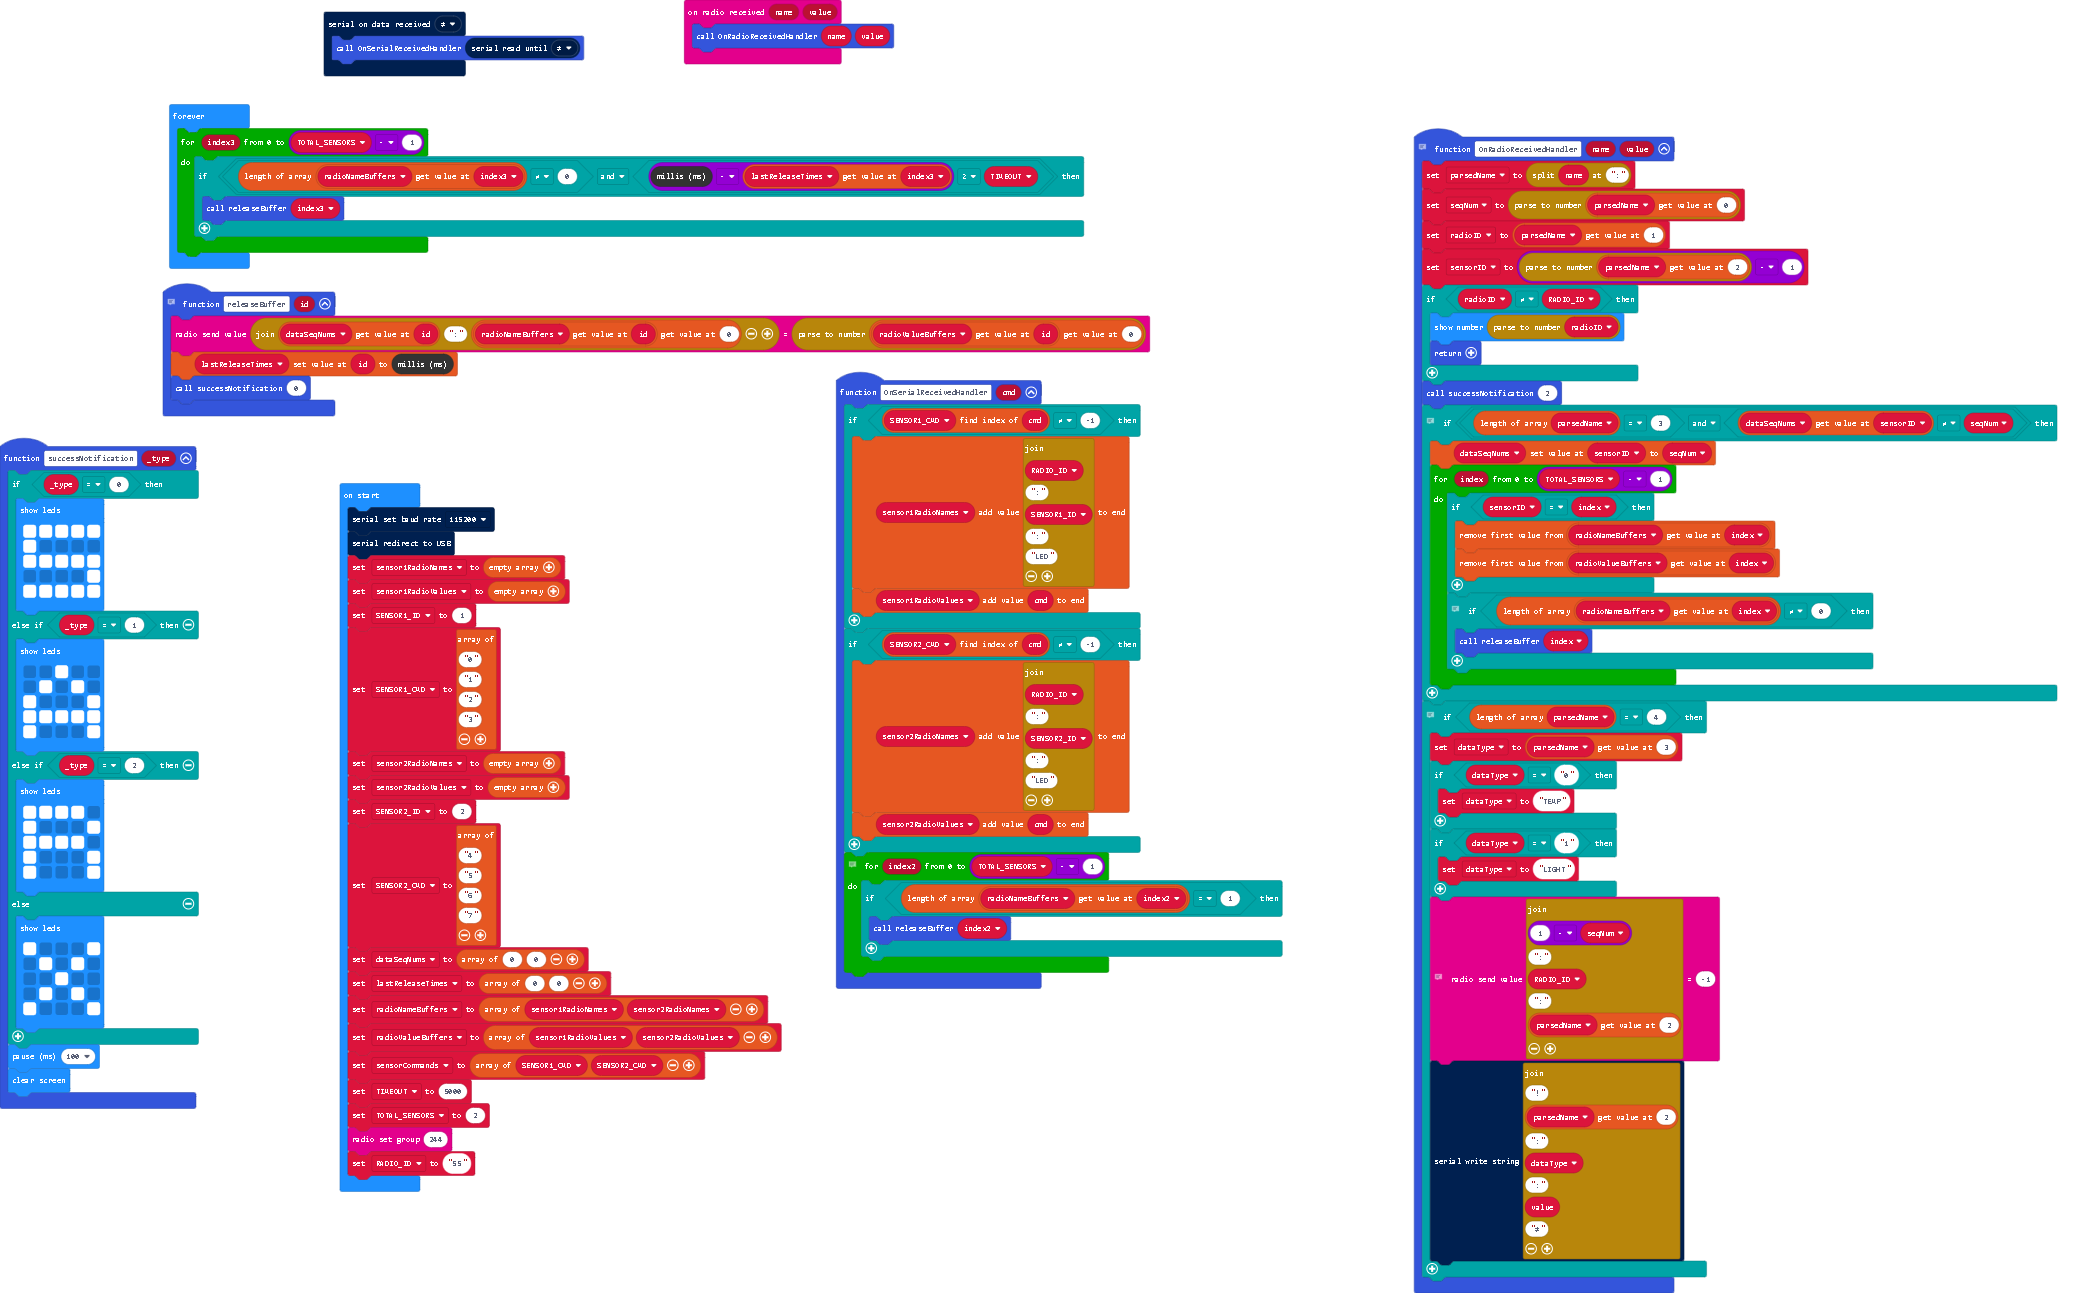
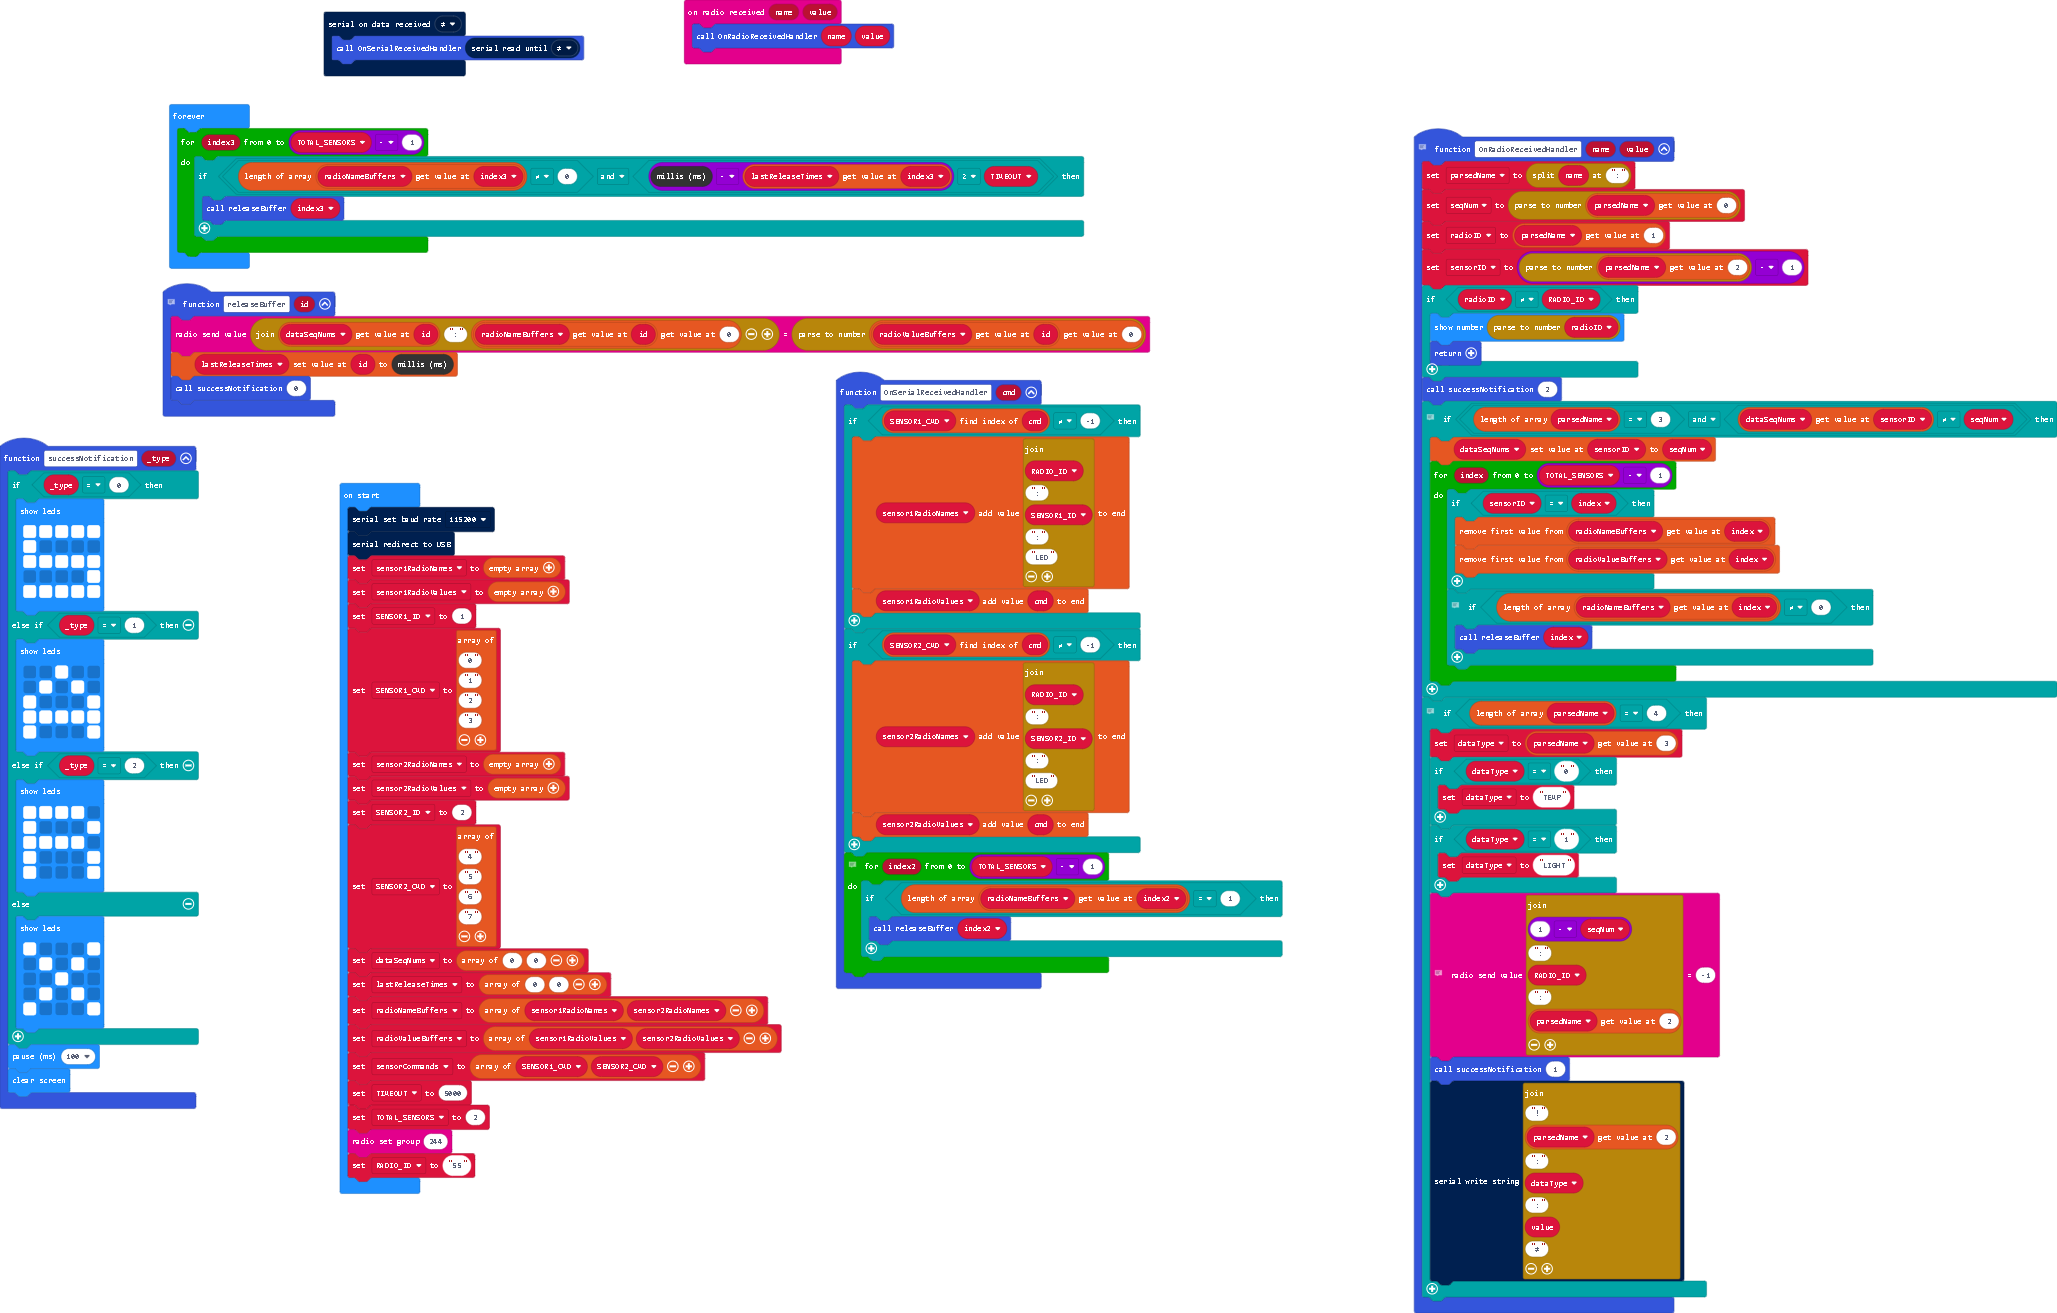
Add show ACK

diff --git a/main.ts b/main.ts
@@ -36,6 +36,7 @@ function OnRadioReceivedHandler (name: string, value: number) {
         // flip sequence number
         // SENSOR_ID
         radio.sendValue("" + (1 - seqNum) + ":" + RADIO_ID + ":" + parsedName[2], -1)
+        successNotification(1)
         serial.writeString("!" + parsedName[2] + ":" + dataType + ":" + value + "#")
     }
 }
